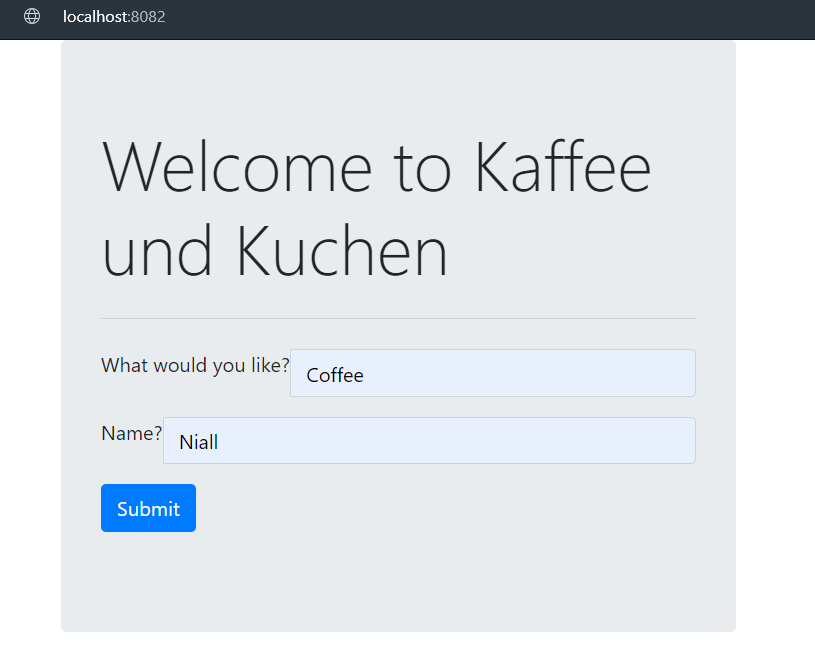
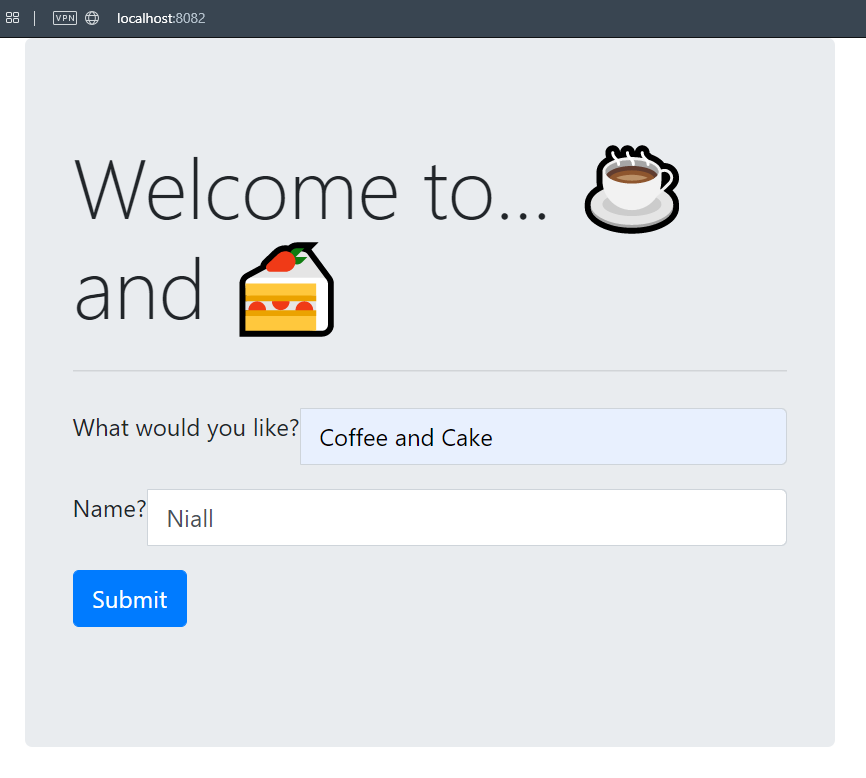
Updated the Cashier

diff --git a/Cashier/src/main/resources/static/index.html b/Cashier/src/main/resources/static/index.html
@@ -24,7 +24,7 @@
     <div class="row justify-content-center">
         <div class="col-6">
             <div class="jumbotron">
-                <h1 class="display-4">Welcome to Kaffee und Kuchen</h1>
+                <h1 class="display-4">Welcome to... &#9749; and &#127856;</h1>
                 <hr class="my-4">
                 <form id="form">
                     <div class="input-group mb-3">

diff --git a/Cashier/src/main/resources/static/js/index.js b/Cashier/src/main/resources/static/js/index.js
@@ -34,7 +34,7 @@ $( "#form" ).submit(function( event ) {
     data: JSON.stringify(data)
   })
     .done(function( msg ) {
-    		$('.response').append('<br>'+msg+'</br>');
+    		$('.response').append('<br><p style="border:2px solid DodgerBlue;">'+msg+'</p>');
       
     }).fail(function( jqXHR, textStatus ) {
     	  $('.response').append('<p>'+jqXHR.responseText+'</p>');

diff --git a/Cashier/src/main/java/cashier/OrderController.java b/Cashier/src/main/java/cashier/OrderController.java
@@ -23,7 +23,8 @@ public class OrderController {
 
     @RequestMapping(value = "/localOrderUp", method = RequestMethod.POST)
     public String sendOrder(@RequestBody OrderMessageRequest order){
-        System.out.println("-- Sending order  "+ order.orderName + " to our order sorter -- ");
+        System.out.println("-- Sending order  "+ order.orderName + " to our " +
+                "Order Sorter -- >");
         URI uri = URI.create("http://localhost:8080/orderUp/");
         String response = restTemplate.postForObject(uri, order, String.class);
         System.out.println("-- All good - the order has been sent -- ");

diff --git a/Cashier/src/main/java/cashier/MessageForTheCashier.java b/Cashier/src/main/java/cashier/MessageForTheCashier.java
@@ -17,7 +17,8 @@ public class MessageForTheCashier {
     public String message(@RequestBody OrderMessageRequest orderMessageRequest){
 
         //System.out.println("We've got a pick-up of "+ orderMessageRequest.orderMessage + " for " + orderMessageRequest.orderName);
-        notificationApp.notify(" -- "+ orderMessageRequest.orderMessage + " for " + orderMessageRequest.orderName + " -- <br><p>");
+        notificationApp.notify("<p style=\"border:2px solid Green;\"> -- "+ orderMessageRequest.orderMessage + " for" +
+                " " + orderMessageRequest.orderName + " --  </p>");
 
         return "success";
 
